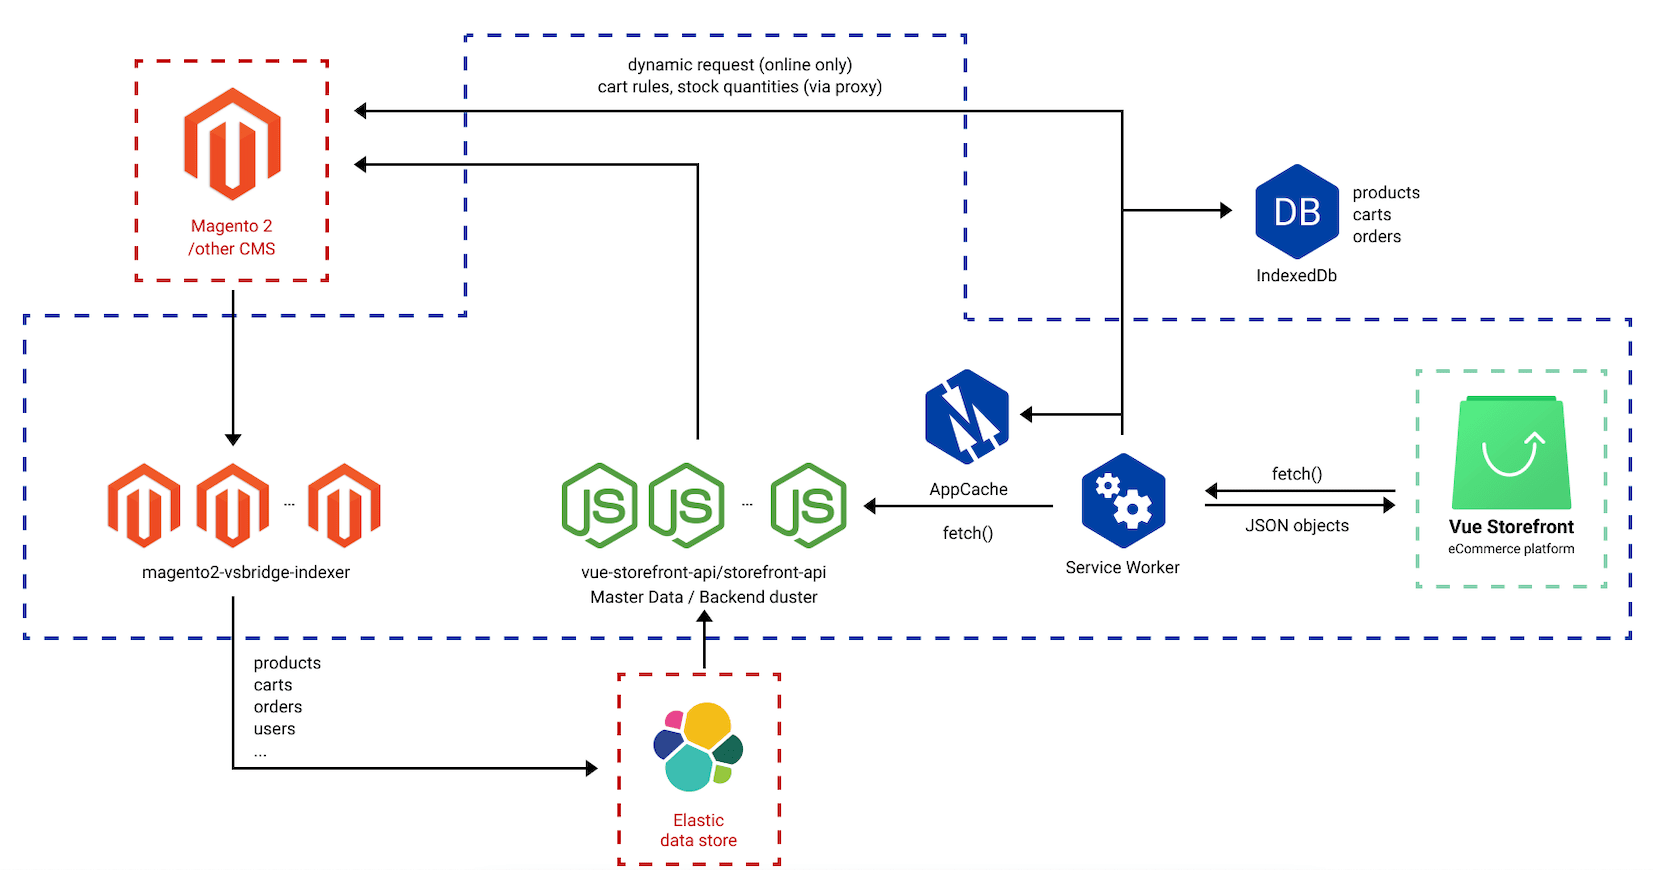
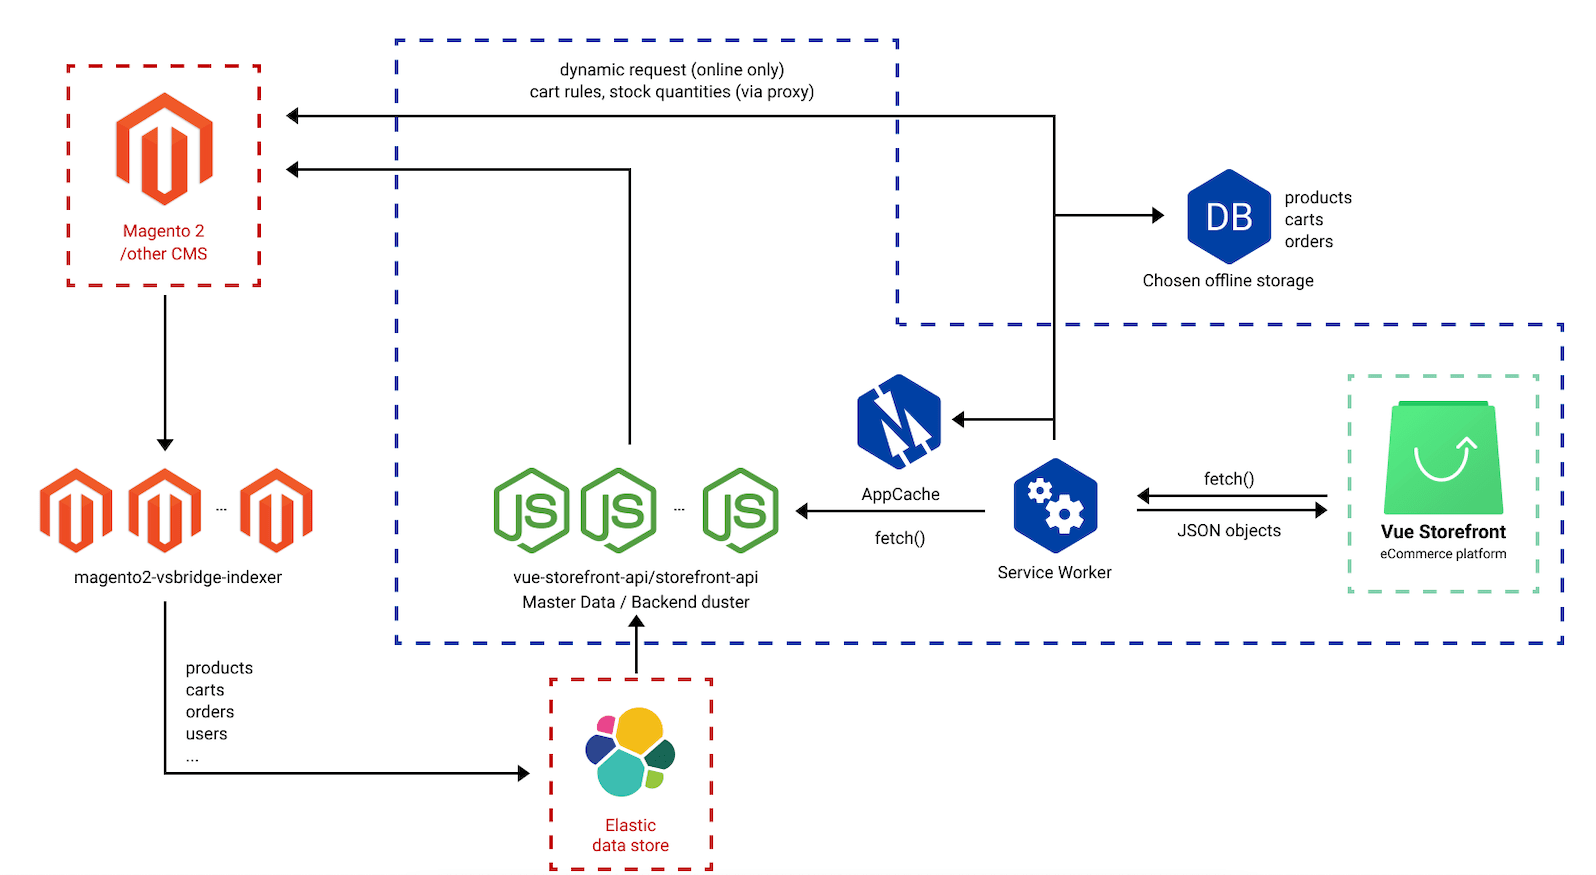
chore: update schema

diff --git a/docs/guide/general/introduction.md b/docs/guide/general/introduction.md
@@ -28,7 +28,7 @@ Vue Storefront manages to be platform-agnostic thanks to the [vue-storefront-api
 It's a great strategy for migrations since you can easily migrate from one platform to another (or one version to another, e.g. Magento 1 to 2) without touching your frontend.
 
 
-![Architecture diagram](https://raw.githubusercontent.com/vuestorefront/vue-storefront/master/docs/.vuepress/public/GitHub-Architecture-VS.png)
+![Architecture diagram](https://raw.githubusercontent.com/vuestorefront/vue-storefront/update-vsf1-infra-schema/docs/.vuepress/public/GitHub-Architecture-VS.png)
 
 The API connector works in two phases:
 - **data pump** ([mage2nosql](https://github.com/vuestorefront/mage2vuestorefront) in the image)  is pulling static data (catalog, orders, etc.) from your eCommerce platform to Vue Storefront Elasticsearch and changes its format to the one consumed by vue-storefront-api. Once finished pulling the data, you can display the product catalog in Vue Storefront. After pumping the data into Elasticsearch is done, it will stay in sync with changes made on the backend platform and update its content accordingly.
